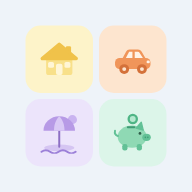
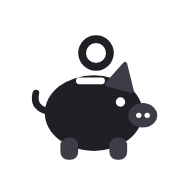
Icono de la app: hucha negra sobre blanco; olas de vacances sin cortar

diff --git a/app.js b/app.js
@@ -25,11 +25,11 @@
       '<rect x="53" y="34" width="5" height="4" rx="2" fill="#fff3e8"/>' +
       '<circle cx="19" cy="47" r="7.5" fill="#d4713a"/><circle cx="19" cy="47" r="3" fill="#fde5cf"/><circle cx="46" cy="47" r="7.5" fill="#d4713a"/><circle cx="46" cy="47" r="3" fill="#fde5cf"/></svg>',
     vacances: '<svg viewBox="0 0 64 64" aria-hidden="true"><circle cx="52" cy="12" r="7" fill="#c9b3f0"/>' +
-      '<ellipse cx="32" cy="55" rx="23" ry="5" fill="#d5c5f2"/>' +
-      '<rect x="30.5" y="24" width="3" height="31" rx="1.5" fill="#8d6fc4"/>' +
+      '<ellipse cx="32" cy="50" rx="21" ry="4.5" fill="#d5c5f2"/>' +
+      '<rect x="30.5" y="24" width="3" height="26" rx="1.5" fill="#8d6fc4"/>' +
       '<path d="M8 29 A24 22 0 0 1 56 29 Z" fill="#b79ae6"/>' +
       '<path d="M32 7 C26 13 24 21 24 29 H40 C40 21 38 13 32 7 Z" fill="#d9c9f5"/>' +
-      '<path d="M5 61 q6.5-5 13 0 t13 0 t13 0 t13 0" stroke="#9c80d8" stroke-width="3" fill="none" stroke-linecap="round"/></svg>',
+      '<path d="M8 56 q6-4.5 12 0 t12 0 t12 0 t12 0" stroke="#9c80d8" stroke-width="3" fill="none" stroke-linecap="round"/></svg>',
     estalvis: '<svg viewBox="0 0 64 64" aria-hidden="true"><circle cx="32" cy="11" r="8" fill="#4fb585"/><circle cx="32" cy="11" r="4.5" fill="#b5e8cf"/>' +
       '<ellipse cx="31" cy="38" rx="22" ry="17" fill="#8fd9b4"/>' +
       '<rect x="16" y="49" width="8" height="10" rx="3.5" fill="#62c196"/><rect x="38" y="49" width="8" height="10" rx="3.5" fill="#62c196"/>' +

diff --git a/sw.js b/sw.js
@@ -1,5 +1,5 @@
 /* Modo sin conexiÃ³n: guarda los archivos de la app y los sirve aunque no haya Internet. */
-const VERSION = 'controlbanc-v8';
+const VERSION = 'controlbanc-v9';
 const ARCHIVOS = ['./', 'index.html', 'logic.js', 'app.js', 'manifest.webmanifest', 'icon-192.png', 'icon-512.png', 'icon-maskable-512.png',
   'fonts/quicksand-latin-d8da43.woff2', 'fonts/quicksand-latin-ext-9d611e.woff2'];
 
